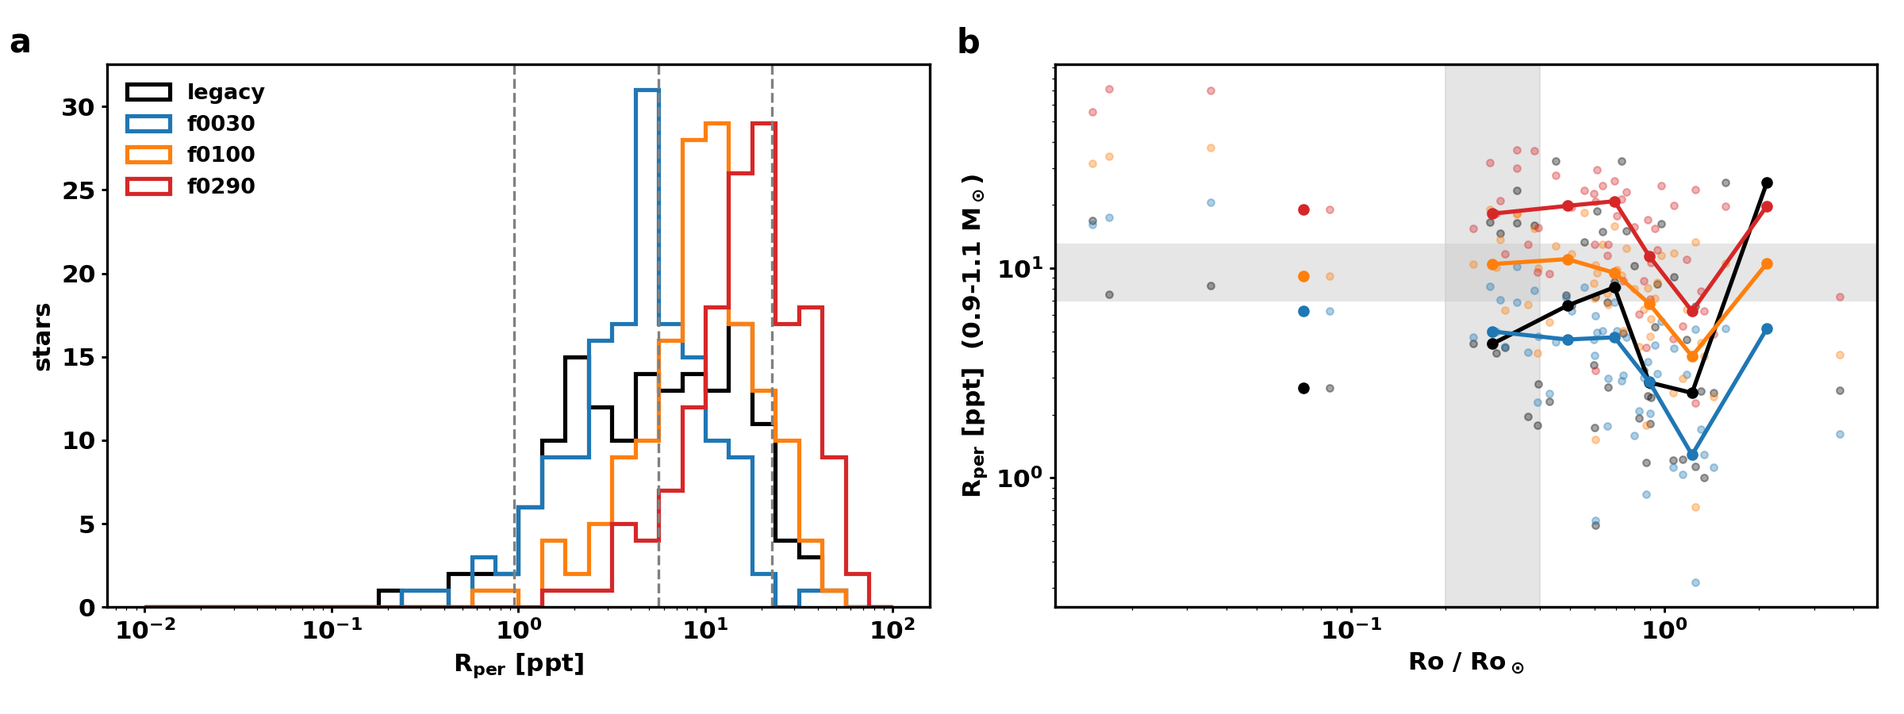
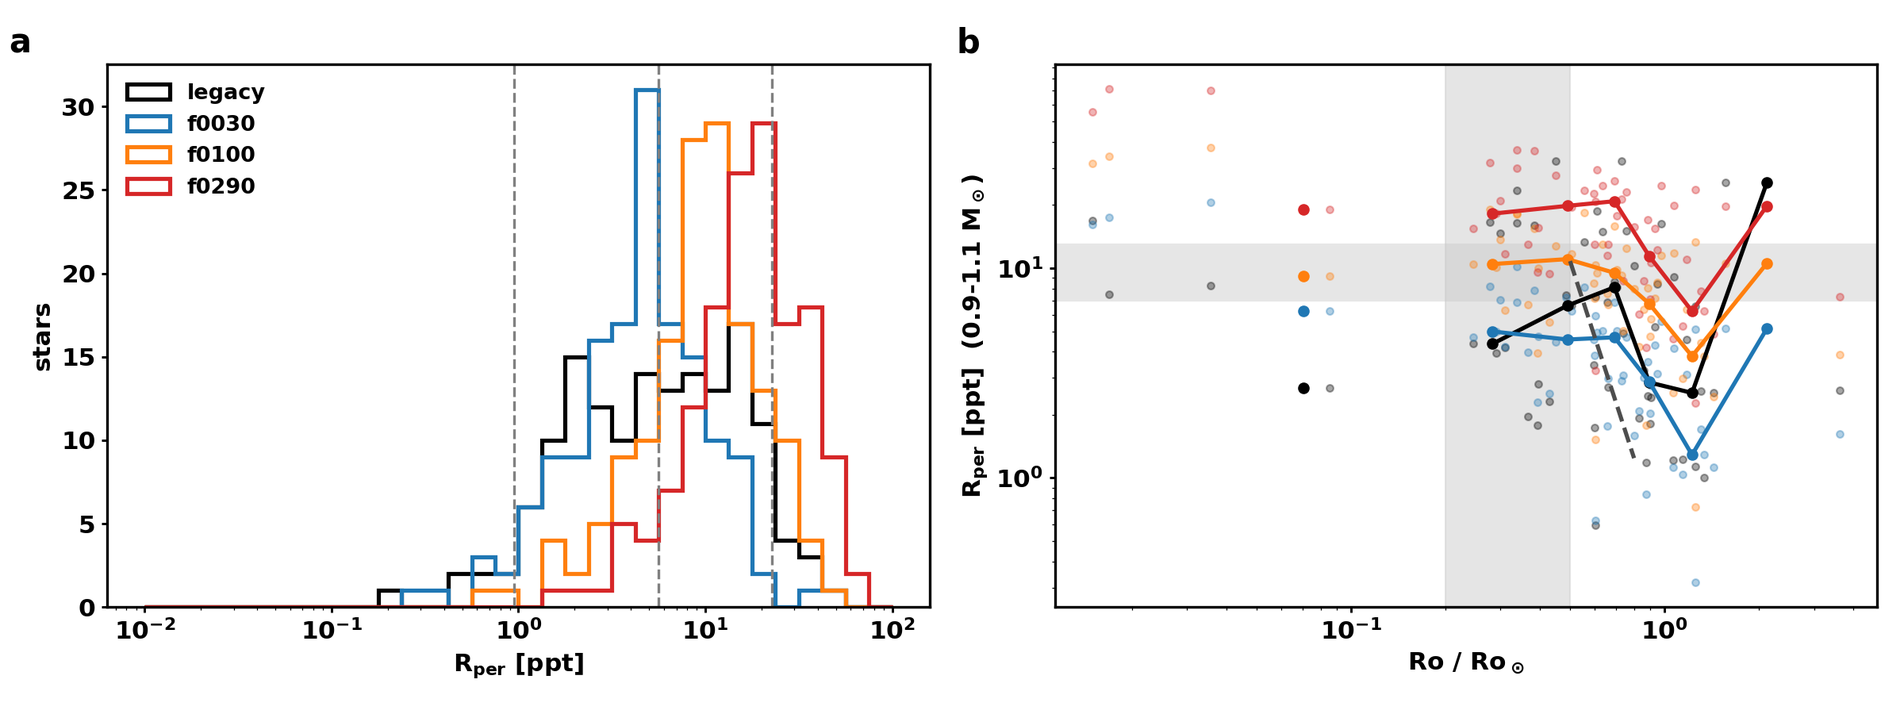
Spot coverage: broken law matching Masuda 2022 slope (default model 'broken')
Flat 0.2-0.5 Ro_sun, coverage slope -7.93 (= R_per slope -4.6 / 0.58) to 0.8 Ro_sun, then
-0.881; f_break 0.02. Predicted from the paired arms: plateau 10.3 ppt (Masuda 10.8),
slope -4.9 (-4.6), McQuillan median/95% 5.78/22.6 (5.6/22.7). Single law kept as 'rossby'.
Readout gains Masuda plateau/slope columns; make_coverage_tables gains --arms broken.

Changed region(s): [[0.8125, 0.4044, 0.8438, 0.8711], [0.8125, 0.0933, 0.8438, 0.3422]]

diff --git a/Dynamo/create_data.py b/Dynamo/create_data.py
@@ -100,20 +100,48 @@ def latitude_population(teff, prot, butterfly, pop, rng):
     return rossby, mu, width, drift
 
 # Time-mean spot coverage (fraction of the whole surface) vs Rossby number; sets the
-# number of spots (Star.generate_spot_map; table column 'Spot Coverage pct'). Per star:
-#   f_i = f_sun * max(Ro_i/Ro_sun, ro_sat)^-slope * 10^N(0, scatter_dex), clipped to f_max
-# with Ro in units of the solar value (Cranmer & Saar 2011 tau_c here).
-# Shape: Cao & Pinsonneault 2022 (MNRAS 517, 2165), Pleiades APOGEE fit eq. 5,
-#   f = 0.0634 Ro^-0.881 above log Ro = -0.729, 0.278 below; their log Ro_sun = 0.39,
-#   so the knee is at Ro/Ro_sun = 10^(-0.729-0.39) = 0.076; scatter 0.059/0.278 = 21% -> 0.09 dex
-#   (saturated stars). Their fit is constrained only for Ro/Ro_sun < ~0.2.
-# Level: f_sun = 0.005, calibrated on 1000-d light curves against the Kepler amplitude
-#   distribution of McQuillan et al. 2014 (docs/spot_coverage.md, 'Calibration'). It lies
-#   between the resolved sunspot coverage at solar maximum (0.28%, Shapiro et al. 2014,
-#   doi:10.1051/0004-6361/201323086) and the spectroscopic level of the same fit at Ro_sun (0.029).
+# number of spots (Star.generate_spot_map; table column 'Spot Coverage pct'). Per star
+# f_i = law(Ro_i/Ro_sun) * 10^N(0, scatter_dex), clipped to f_max, with Ro in units of the
+# solar value (Cranmer & Saar 2011 tau_c, as in Masuda 2022). docs/spot_coverage.md.
+# model "broken" (default), x = Ro/Ro_sun:
+#   x < ro_flat:             f_break * (max(x, ro_sat)/ro_flat)^-slope
+#   ro_flat <= x <= ro_break: f_break
+#   ro_break < x <= ro_tail:  f_break * (x/ro_break)^-slope_unsat
+#   x > ro_tail:              continues with slope_tail
+#   - slope 0.881 and ro_sat 0.076: Cao & Pinsonneault 2022 (MNRAS 517, 2165) eq. 5,
+#     f = 0.0634 Ro^-0.881 above log Ro = -0.729 with their log Ro_sun = 0.39; their
+#     Pleiades fit reaches only x ~ 0.2 (ro_flat). Scatter 21% at saturation -> 0.09 dex.
+#   - flat for 0.2 < x < 0.5, then d ln R_per / d ln Ro = -4.6 +- 0.9 above Ro = 0.99
+#     (x = 0.50): Masuda 2022 (arXiv:2206.01595), Kepler stars with Kp < 12 (least
+#     detection bias); beta_sat = -0.04 +- 0.09. In our light curves R_per ~ f^0.58 per
+#     star, so slope_unsat = 4.6/0.58 = 7.93.
+#   - slope_tail = 0.881 beyond x = 0.8, where Masuda's steep range ends; the less biased
+#     Santos et al. sample flattens again at x >~ 1 (Masuda 2022, Sec. 3.4). Extending the
+#     steep slope to x = 1 would give the Sun 0.008% coverage and leave 6% of stars spotless.
+#   - f_break = 0.02: calibrated so that R_per of 4000-6250 K dwarfs plateaus at ~10.8 ppt
+#     (Masuda) and the median/95% match McQuillan et al. 2014 (5.6/22.7 ppt).
+# model "rossby": single law f_sun * max(x, ro_sat)^-slope (first calibration, f_sun 0.005).
 # model "legacy" restores the old count rule (0.1 sqrt(ar) spots/day, clipped to [20, 500]).
-SPOT_COVERAGE_DEFAULT = dict(model="rossby", f_sun=0.005, slope=0.881, ro_sat=0.076,
+SPOT_COVERAGE_DEFAULT = dict(model="broken", f_break=0.02, ro_flat=0.2, ro_break=0.5,
+                             slope_unsat=7.93, ro_tail=0.8, slope_tail=0.881,
+                             f_sun=0.005, slope=0.881, ro_sat=0.076,
                              scatter_dex=0.09, f_max=0.5)
+
+
+def spot_coverage_law(x, cfg):
+    """Median spot coverage (fraction of the surface) at Ro/Ro_sun = x, before scatter."""
+    x = np.asarray(x, dtype=float)
+    if cfg["model"] == "rossby":
+        return cfg["f_sun"] * np.maximum(x, cfg["ro_sat"]) ** (-cfg["slope"])
+    if cfg["model"] != "broken":
+        raise ValueError(f"unknown spot coverage model {cfg['model']!r}")
+    fb, xb, xt = cfg["f_break"], cfg["ro_break"], cfg["ro_tail"]
+    f_tail = fb * (xt / xb) ** (-cfg["slope_unsat"])
+    return np.where(x < cfg["ro_flat"],
+                    fb * (np.maximum(x, cfg["ro_sat"]) / cfg["ro_flat"]) ** (-cfg["slope"]),
+           np.where(x <= xb, fb,
+           np.where(x <= xt, fb * (x / xb) ** (-cfg["slope_unsat"]),
+                    f_tail * (x / xt) ** (-cfg["slope_tail"]))))
 
 
 def spot_coverage_population(rossby, has_dynamo, cfg, rng):
@@ -121,8 +149,8 @@ def spot_coverage_population(rossby, has_dynamo, cfg, rng):
     n = len(rossby)
     if cfg["model"] == "legacy":
         return np.full(n, np.nan)
-    x = np.maximum(np.asarray(rossby, dtype=float) / ROSSBY_SUN, cfg["ro_sat"])
-    f = cfg["f_sun"] * x ** (-cfg["slope"]) * 10 ** rng.normal(0.0, cfg["scatter_dex"], n)
+    x = np.asarray(rossby, dtype=float) / ROSSBY_SUN
+    f = spot_coverage_law(x, cfg) * 10 ** rng.normal(0.0, cfg["scatter_dex"], n)
     return np.where(has_dynamo, np.minimum(f, cfg["f_max"]), 0.0)
 
 

diff --git a/scripts/make_coverage_tables.py b/scripts/make_coverage_tables.py
@@ -2,23 +2,28 @@
 """Spot-coverage calibration tables (docs/spot_coverage.md).
 
 One table drawn once, written once per arm. The arms differ only in the
-'Spot Coverage pct' column: f_sun scales every star's coverage (same scatter
-draw), and the 'legacy' arm uses the old spot-count rule (column NaN). Every
-other column and the per-star Seed are shared, so the arms are paired.
+'Spot Coverage pct' column; the per-star scatter draw, every other column and the
+per-star Seed are shared, so the arms are paired. Arms:
+  legacy     old spot-count rule (column NaN)
+  fXXXX      single law f_sun * max(Ro/Ro_sun, ro_sat)^-0.881, f_sun = XXXX/1e4 (model "rossby")
+  broken     the default broken law (SPOT_COVERAGE_DEFAULT)
 
   python scripts/make_coverage_tables.py --n 200 --out dataset_cov
-  -> dataset_cov_legacy/ dataset_cov_f0030/ dataset_cov_f0100/ dataset_cov_f0290/
+  -> dataset_cov_legacy/ dataset_cov_f0030/ dataset_cov_f0100/ dataset_cov_f0290/ dataset_cov_broken/
+  python scripts/make_coverage_tables.py --arms broken     # only the default-law arm
 """
 import argparse
 import logging
 import sys
+import tempfile
 from pathlib import Path
 
 import numpy as np
 import pandas as pd
 
 sys.path.insert(0, str(Path(__file__).resolve().parents[1]))
-from Dynamo.create_data import generate_simdata, SPOT_COVERAGE_DEFAULT  # noqa: E402
+from Dynamo.create_data import (generate_simdata, SPOT_COVERAGE_DEFAULT, ROSSBY_SUN,  # noqa: E402
+                                spot_coverage_law)
 
 
 def main():
@@ -28,22 +33,35 @@ def main():
     ap.add_argument("--f-sun", type=float, nargs="+", default=[0.003, 0.01, 0.029])
     ap.add_argument("--base-seed", type=int, default=100000)
     ap.add_argument("--table-seed", type=int, default=2026, help="seed for drawing the table itself")
+    ap.add_argument("--arms", nargs="+", default=["legacy", "f_sun", "broken"],
+                    help="any of: legacy, f_sun (one arm per --f-sun value), broken")
     a = ap.parse_args()
-    arms = {f"{a.out}_legacy": None}
-    arms.update({f"{a.out}_f{round(f * 1e4):04d}": f for f in a.f_sun})
+    arms = {}
+    if "legacy" in a.arms:
+        arms[f"{a.out}_legacy"] = None
+    if "f_sun" in a.arms:
+        arms.update({f"{a.out}_f{round(f * 1e4):04d}": f for f in a.f_sun})
+    if "broken" in a.arms:
+        arms[f"{a.out}_broken"] = "broken"
     for d in arms:
         if (Path(d) / "simulation_properties.csv").exists():
             sys.exit(f"{d}/simulation_properties.csv exists; refusing to overwrite")
-    first = Path(next(iter(arms)))
-    first.mkdir(parents=True, exist_ok=True)
-    np.random.seed(a.table_seed)
-    generate_simdata(str(first), a.n, logging.getLogger("tables"), base_seed=a.base_seed, sim_name="dataset")
-    t = pd.read_csv(first / "simulation_properties.csv")
-    base = t["Spot Coverage pct"].to_numpy() / SPOT_COVERAGE_DEFAULT["f_sun"]
+    with tempfile.TemporaryDirectory() as tmp:
+        np.random.seed(a.table_seed)
+        generate_simdata(tmp, a.n, logging.getLogger("tables"), base_seed=a.base_seed, sim_name="dataset")
+        t = pd.read_csv(Path(tmp) / "simulation_properties.csv")
+    # per-star scatter factor of the default law (0 for stars without a dynamo)
+    law = spot_coverage_law(t["Rossby"].to_numpy() / ROSSBY_SUN, SPOT_COVERAGE_DEFAULT)
+    eps = t["Spot Coverage pct"].to_numpy() / 100 / law
+    x = t["Rossby"].to_numpy() / ROSSBY_SUN
     for d, f in arms.items():
         Path(d).mkdir(parents=True, exist_ok=True)
         u = t.copy()
-        u["Spot Coverage pct"] = np.nan if f is None else base * f
+        if f is None:
+            u["Spot Coverage pct"] = np.nan
+        elif f != "broken":
+            single = spot_coverage_law(x, dict(SPOT_COVERAGE_DEFAULT, model="rossby", f_sun=f))
+            u["Spot Coverage pct"] = 100 * np.minimum(single * eps, SPOT_COVERAGE_DEFAULT["f_max"])
         u.to_csv(Path(d) / "simulation_properties.csv", index=False, float_format="%.6g")
         cov = u.loc[u["Has Dynamo"].astype(bool), "Spot Coverage pct"]
         print(f"{d}: {len(u)} stars, {int(u['Has Dynamo'].sum())} with a dynamo, "

diff --git a/scripts/coverage_calibration_report.py b/scripts/coverage_calibration_report.py
@@ -4,8 +4,9 @@
 For each arm (dataset_cov_legacy, dataset_cov_fXXXX):
   R_per percentiles of main-sequence stars below 6500 K vs McQuillan et al. 2014
   (950 / 5600 / 22700 ppm), Sarle's bimodality coefficient of log R_per, and
-  R_per vs Ro/Ro_sun for 0.9-1.1 M_sun stars vs Masuda 2022 (~1% plateau for
-  0.2 < Ro/Ro_sun < 0.4, steep decline above ~0.4).
+  R_per vs Ro/Ro_sun vs Masuda 2022 (arXiv:2206.01595; Cranmer & Saar tau_c as here):
+  for 4000-6250 K dwarfs, plateau R_per ~ 10.8 ppt for 0.2 < Ro/Ro_sun < 0.5 and
+  d ln R_per / d ln Ro = -4.6 +- 0.9 above Ro/Ro_sun = 0.50 (Kp < 12 fit).
 
   python scripts/coverage_calibration_report.py dataset_cov_legacy dataset_cov_f0030 \
       dataset_cov_f0100 dataset_cov_f0290 --out docs/spot_coverage_calibration
@@ -28,6 +29,7 @@ from faculae_smoke_report import load, norm, r_per, md_table  # noqa: E402
 from Dynamo.create_data import ROSSBY_SUN  # noqa: E402
 
 MCQ = (0.95, 5.6, 22.7)          # ppt, 5th / 50th / 95th percentile
+MASUDA = (10.8, -4.6)            # plateau [ppt], slope above Ro/Ro_sun = 0.5
 RO_BINS = [0.05, 0.1, 0.2, 0.4, 0.6, 0.8, 1.0, 1.5, 3.0]
 
 plt.rcParams.update({"font.size": 15, "font.weight": "bold", "axes.labelweight": "bold",
@@ -82,20 +84,25 @@ def main():
                      "boosted": f"{(g.boost > 1).mean():.0%}",
                      "rho(R_per, Ro)": f"{stats.spearmanr(g.rper_ppt, g.ro_rel)[0]:+.2f}",
                      "rho(R_per, area)": f"{stats.spearmanr(g.rper_ppt, g.max_area)[0]:+.2f}"})
+        k = g[(g.evo == "dwarf") & g.teff.between(4000, 6250) & (g.rper_ppt > 0)]
+        a58 = k[k.ro_rel.between(0.5, 0.8)]
+        summ[-1].update({"plateau 0.2-0.5 [ppt]": f"{k[k.ro_rel.between(0.2, 0.5)].rper_ppt.median():.1f}",
+                         "slope 0.5-0.8": f"{np.polyfit(np.log(a58.ro_rel), np.log(a58.rper_ppt), 1)[0]:+.1f}"})
         sm = g[g.mass.between(0.9, 1.1)]
         for lo, hi in zip(RO_BINS[:-1], RO_BINS[1:]):
             s = sm[(sm.ro_rel >= lo) & (sm.ro_rel < hi)]
             ro_rows.append({"arm": arm, "Ro/Ro_sun": f"{lo}-{hi}", "n": len(s),
                             "R_per median [ppt]": f"{s.rper_ppt.median():.2f}" if len(s) else "-"})
-    summ.append({"arm": "McQuillan 2014", "R_per 5% [ppt]": MCQ[0], "50%": MCQ[1], "95%": MCQ[2]})
+    summ.append({"arm": "McQuillan 2014 / Masuda 2022", "R_per 5% [ppt]": MCQ[0], "50%": MCQ[1], "95%": MCQ[2],
+                 "plateau 0.2-0.5 [ppt]": MASUDA[0], "slope 0.5-0.8": MASUDA[1]})
     ro = pd.DataFrame(ro_rows).pivot(index="Ro/Ro_sun", columns="arm", values="R_per median [ppt]")
     ro = ro.loc[[f"{lo}-{hi}" for lo, hi in zip(RO_BINS[:-1], RO_BINS[1:])]].reset_index()
     with open(f"{a.out}.md", "w") as f:
         f.write("# Spot-coverage calibration readout\n\n"
                 "R_per of clean 1000-d light curves (faculae on, no noise). Main sequence, Teff < 6500 K.\n\n")
         f.write(md_table(pd.DataFrame(summ).fillna("")) + "\n\n")
-        f.write("R_per median vs Ro/Ro_sun, 0.9-1.1 M_sun (Masuda 2022: ~10 ppt plateau at 0.2-0.4, "
-                "steep decline above ~0.4)\n\n" + md_table(ro.fillna("-")) + "\n")
+        f.write("R_per median vs Ro/Ro_sun, 0.9-1.1 M_sun (Masuda 2022: ~10.8 ppt plateau at 0.2-0.5, "
+                "slope -4.6 above 0.5). Plateau and slope columns above: 4000-6250 K dwarfs.\n\n" + md_table(ro.fillna("-")) + "\n")
 
     fig, (ax1, ax2) = plt.subplots(1, 2, figsize=(16, 6))
     colors = ["k", "tab:blue", "tab:orange", "tab:red", "tab:green", "tab:purple"]
@@ -114,7 +121,9 @@ def main():
     ax1.set_ylabel("stars")
     ax1.legend(frameon=False, fontsize=13)
     ax2.axhspan(7, 13, xmin=0, xmax=1, color="0.9", zorder=0)
-    ax2.axvspan(0.2, 0.4, color="0.8", alpha=0.5, zorder=0)
+    ax2.axvspan(0.2, 0.5, color="0.8", alpha=0.5, zorder=0)
+    xs = np.array([0.5, 0.8])
+    ax2.plot(xs, MASUDA[0] * (xs / 0.5) ** MASUDA[1], color="0.3", ls="--", lw=2.5)
     ax2.set_xscale("log"); ax2.set_yscale("log")
     ax2.set_xlabel(r"Ro / Ro$_\odot$")
     ax2.set_ylabel(r"R$_{\rm per}$ [ppt]  (0.9-1.1 M$_\odot$)")

diff --git a/tests/test_spot_coverage.py b/tests/test_spot_coverage.py
@@ -7,7 +7,7 @@ import numpy as np
 
 from helpers import make_star
 from Dynamo import spots
-from Dynamo.create_data import SPOT_COVERAGE_DEFAULT, ROSSBY_SUN
+from Dynamo.create_data import SPOT_COVERAGE_DEFAULT, ROSSBY_SUN, spot_coverage_law
 
 _CACHE = {}
 
@@ -58,18 +58,28 @@ def test_max_spots_keeps_coverage():
 def test_population_follows_rossby_law():
     sims, pop = _table(None)
     c = pop["spot_coverage"]
-    assert c["model"] == "rossby" and c["f_sun"] == SPOT_COVERAGE_DEFAULT["f_sun"]
+    assert c["model"] == "broken" and c["f_break"] == SPOT_COVERAGE_DEFAULT["f_break"]
     f = sims["Spot Coverage pct"].values / 100
     dyn = sims["Has Dynamo"].values.astype(bool)
     assert (f[~dyn] == 0).all() and (f[dyn] > 0).all()
     x = sims.Rossby.values / ROSSBY_SUN
-    near_sun = dyn & (x > 0.8) & (x < 1.25)
-    assert abs(np.median(f[near_sun]) / c["f_sun"] - 1) < 0.25
+    plateau = dyn & (x > c["ro_flat"]) & (x < c["ro_break"])
+    assert abs(np.median(f[plateau]) / c["f_break"] - 1) < 0.1
     sat = dyn & (x < c["ro_sat"])
-    plateau = c["f_sun"] * c["ro_sat"] ** -c["slope"]
-    assert abs(np.median(f[sat]) / plateau - 1) < 0.1
-    resid = np.log10(f[dyn]) - np.log10(c["f_sun"] * np.maximum(x[dyn], c["ro_sat"]) ** -c["slope"])
+    assert abs(np.median(f[sat]) / (c["f_break"] * (c["ro_sat"] / c["ro_flat"]) ** -c["slope"]) - 1) < 0.1
+    resid = np.log10(f[dyn]) - np.log10(spot_coverage_law(x[dyn], c))
     assert abs(resid.std() - c["scatter_dex"]) < 0.01
+
+
+def test_broken_law_shape():
+    c = SPOT_COVERAGE_DEFAULT
+    x = np.array([0.01, c["ro_sat"], c["ro_flat"], 0.35, c["ro_break"], c["ro_tail"], 2 * c["ro_tail"]])
+    f = spot_coverage_law(x, c)
+    assert f[0] == f[1] and np.isclose(f[2], c["f_break"]) and f[3] == f[4] == c["f_break"]
+    assert np.isclose(f[5], c["f_break"] * (c["ro_tail"] / c["ro_break"]) ** -c["slope_unsat"])
+    assert np.isclose(f[6], f[5] * 2 ** -c["slope_tail"])
+    r = spot_coverage_law(x, dict(c, model="rossby"))
+    assert np.isclose(spot_coverage_law(1.0, dict(c, model="rossby")), c["f_sun"]) and r[0] == r[1]
 
 
 def test_legacy_model_and_other_draws_unchanged():

diff --git a/docs/spot_coverage.md b/docs/spot_coverage.md
@@ -21,7 +21,8 @@ stars. That is much flatter than the measured relation below.
 | f_spot, M67 (solar age) | GK dwarfs 0.030 +- 0.008; solar analogues (5700-5900 K) 0.020 +- 0.011; giants 0.003 +- 0.002 | same |
 | TiO f_spot, Pleiades | rises with decreasing Ro, saturates at 40-50% below Ro ~ 0.1 (Wright 2011 tau) | Fang et al. 2016, MNRAS 463, 2494 (arXiv:1608.05452) |
 | f_spot vs age, Kepler/K2 clusters | f ~ 0.014 (t/Gyr)^-0.37; f ~ 0.02 SmAmp[%]^0.74 | Morris 2020, ApJ, doi:10.3847/1538-4357/ab79a0 (arXiv:2002.09135) |
-| photometric amplitude vs Ro, solar-mass Kepler stars | R_per ~ 1% plateau for 0.2 < Ro/Ro_sun < 0.4; then d ln R_per / d ln Ro = -2.5 to -4.5 | Masuda 2022, ApJ (arXiv:2206.01595) |
+| photometric amplitude vs Ro, 4000-6250 K Kepler dwarfs (Cranmer & Saar tau_c, Ro_sun ~ 2) | all stars: R_per = 10.8 +- 0.4 ppt at Ro = 0.84 +- 0.02 (Ro/Ro_sun 0.43), slope -0.04 +- 0.09 below and -2.6 +- 0.1 above; Kp < 12 (least detection bias): break at Ro = 0.99 (0.50 Ro_sun), slope -4.6 +- 0.9 above; scatter 0.24 dex | Masuda 2022, ApJ (arXiv:2206.01595), Sec. 3.2-3.3 |
+| Sun vs Kepler solar-like stars with detected periods | median variability of the stars 5x the Sun's | Reinhold et al. 2020, Science 368, 518, doi:10.1126/science.aay3821 |
 | Kepler R_per distribution (detected periods) | 5th / 50th / 95th percentile = 950 / 5600 / 22700 ppm | McQuillan, Mazeh & Aigrain 2014, ApJS (arXiv:1402.5694) |
 | starspot lifetimes (Kepler, solar-type) | 10-350 d for spots of 0.1-2.3% of the hemisphere | Namekata et al. 2019, ApJ (arXiv:1811.10782) |
 
@@ -39,17 +40,22 @@ Two facts matter for the design:
 
 ## Model
 
-`create_data.SPOT_COVERAGE_DEFAULT`, column `Spot Coverage pct` (time-mean % of the whole surface):
+`create_data.SPOT_COVERAGE_DEFAULT`, column `Spot Coverage pct` (time-mean % of the whole surface),
+`f_i = law(Ro_i/Ro_sun) * 10^N(0, scatter_dex)`, `f_i <= f_max`, with the broken law
+(`create_data.spot_coverage_law`, model "broken"), x = Ro/Ro_sun:
 
-    f_i = f_sun * max(Ro_i/Ro_sun, ro_sat)^-slope * 10^N(0, scatter_dex),   f_i <= f_max
-
-| parameter | default | origin |
+| range | coverage | origin |
 |---|---|---|
-| f_sun | 0.005 | calibrated against McQuillan 2014 amplitudes (below); Sun at maximum is 0.003 (Shapiro 2014) |
-| slope | 0.881 | Cao & Pinsonneault 2022 eq. 5 |
-| ro_sat | 0.076 | same, converted with their log Ro_sun = 0.39 |
-| scatter_dex | 0.09 | same, 21% at saturation |
-| f_max | 0.5 | TiO saturation level, Fang 2016 |
+| x < ro_sat = 0.076 | saturated, 2.34 f_break | Cao & Pinsonneault 2022 eq. 5 knee |
+| 0.076 < x < ro_flat = 0.2 | f_break (x/0.2)^-0.881 | Cao & Pinsonneault slope (their data reach x ~ 0.2) |
+| 0.2 <= x <= ro_break = 0.5 | f_break = 0.02 | Masuda: R_per flat (slope -0.04 +- 0.09); level calibrated below |
+| 0.5 < x <= ro_tail = 0.8 | f_break (x/0.5)^-7.93 | Masuda Kp < 12: R_per slope -4.6, and R_per ~ f^0.58 per star |
+| x > 0.8 | continues with slope -0.881 | end of Masuda's steep range; the Santos sample flattens at x >~ 1 |
+
+scatter_dex = 0.09 (Cao & Pinsonneault, 21% at saturation), f_max = 0.5 (TiO saturation,
+Fang 2016). Resulting medians: 4.7% saturated, 2% on the plateau, 0.14% at x = 0.7,
+0.04% at Ro_sun. The first calibration's single law, f_sun * max(x, ro_sat)^-0.881 with
+f_sun = 0.005, remains as model "rossby".
 
 Ro uses the table's Cranmer & Saar 2011 tau_c with Ro_sun = 25.4 d / tau_c(5772 K). Only the
 ratio Ro/Ro_sun is transferred between conventions; the mass dependence of the two
@@ -94,6 +100,7 @@ unresolved groups of smaller spots. The per-star config records `n_spots`,
 | **0.005 (default)** | 0.23 / 0.78 / 3.2 (0.003 row x 5/3) | 27 / 195 / 1677 (same scaling) | - |
 | 0.01 | 0.48 / 1.55 / 6.3 | 54 / 390 / 3353 | 6% / 1% |
 | 0.029 (spectroscopic) | 1.4 / 4.5 / 18 | 156 / 1132 / 9725 | 24% / 5% |
+| **broken law (default)** | 0.019 / 0.41 / 3.0 | 3 / 84 / 2103 | 2.5% / 0%; 1% below one spot |
 
 ## Run time vs spot count
 
@@ -122,6 +129,11 @@ Athena jobs 178155-178158, 178482-178483. R_per for main-sequence stars below 65
 | f_sun = 0.029 | 4.38 / 17.8 / 48.5 | 0.39 | 1946 / 14860 | -0.53 | +0.50 |
 | McQuillan 2014 | 0.95 / 5.6 / 22.7 | | | | |
 
+Against Masuda 2022 (4000-6250 K dwarfs; `plateau` and `slope` columns of the readout):
+plateau R_per at 0.2 < Ro/Ro_sun < 0.5 is 9.4 / 5.4 / 11.5 / 19.8 ppt (old rule, 0.003,
+0.01, 0.029; Masuda 10.8) and the slope over 0.5-0.8 is +0.3 / -0.7 / -0.5 / -0.3
+(Masuda -4.6 +- 0.9).
+
 Findings:
 
 1. **The second amplitude peak is gone.** Sarle's coefficient drops from 0.42 to 0.30
@@ -132,13 +144,43 @@ Findings:
    f_sun^0.48 at the 95th percentile (from the 0.003 and 0.01 runs). Matching the median
    needs 0.004 and the 95th percentile 0.006. McQuillan counts only stars with detected
    periods, which favours large amplitudes. **Default: f_sun = 0.005.**
-4. **Open: the shape vs Masuda 2022 does not match.** For 0.9-1.1 M_sun stars (about 10 per
-   Ro bin per arm), median R_per is flat up to Ro/Ro_sun ~ 0.8 and then falls with
-   d ln R / d ln Ro ~ -1. Masuda finds a ~10 ppt plateau at 0.2-0.4 and slopes of -2.5 to
-   -4.5 above 0.4. The plateau level matches f_sun = 0.01 (10.4 ppt) better than 0.003
-   (5.0 ppt). The likely cause is the coverage slope, not the level: Cao & Pinsonneault's
-   -0.88 is fit only below Ro/Ro_sun ~ 0.2, and a steeper slope above ~0.4 would match
-   Masuda. That needs its own run.
+4. **The shape did not match Masuda 2022** (fixed below): the single -0.88 law gives an
+   R_per slope of about -0.5, against -4.6.
+
+### Slope fix: broken law
+
+In these runs, amplitude per unit coverage hardly depends on Ro (rho(R_per / f^0.58, Ro) =
+-0.11; spot size matters more, +0.41), and per star R_per ~ f^0.58 (median of the paired
+arms; 0.52-0.62 in every Ro bin, close to the sqrt(N) of spots at random longitudes). So
+Masuda's R_per law maps directly onto coverage: flat for 0.2-0.5 Ro_sun, slope
+-4.6/0.58 = -7.93 above. Masuda uses the same Cranmer & Saar tau_c as the table
+(Ro_sun ~ 2; ours 1.97), so no conversion is needed. The bright-star (Kp < 12) slope is
+used because the simulation has no detection bias; the all-star -2.6 is shallower
+because weak modulation is missed (Masuda Sec. 3.3).
+
+f_break was set by predicting each star's R_per under candidate laws, interpolating its
+log R_per vs log f between the three paired arms (slope 0.58 beyond them):
+
+| law | plateau [ppt] | slope 0.5-0.8 | R_per 5 / 50 / 95% | f(Ro_sun) |
+|---|---|---|---|---|
+| f_break 0.02, steep to 1.0 | 10.3 | -4.9 | 0.18 / 5.78 / 22.6 | 0.008% (6% of stars < 0.5 spots) |
+| **f_break 0.02, steep to 0.8 (default)** | **10.3** | **-4.9** | **0.37 / 5.78 / 22.6** | **0.04%** |
+| target | 10.8 (Masuda) | -4.6 +- 0.9 | 0.95 / 5.6 / 22.7 (McQuillan) | |
+
+One law now fits Masuda's plateau and slope and McQuillan's median and 95th percentile:
+the earlier conflict between levels (0.005 for McQuillan, 0.01 for Masuda's plateau) came
+from the slope. The 5th percentile sits below McQuillan, as expected for a catalogue of
+detected periods. Ending the steep part at 0.8 rather than 1.0 changes nothing over
+Masuda's range; it keeps Sun-like stars spotted.
+
+Open: at Ro_sun the law gives 0.04% coverage, below the Sun's resolved sunspot coverage
+(0.28% at maximum). Kepler stars near Ro_sun are themselves more variable than the Sun
+(Reinhold 2020), so the Sun is not used as an anchor. The low value may mean the
+simulation over-produces amplitude per unit spot area at low activity (e.g. too-large
+spots or too little facular cancellation), which this calibration absorbs into f.
+
+**Confirmation run (to do):** `dataset_cov_broken`, the same 200 stars with the default law
+(`python scripts/make_coverage_tables.py --arms broken`), then rerun the readout with five arms.
 
 Caveats: no photometric noise, no period-detection selection, 150 stars per arm.
 

diff --git a/docs/spot_coverage_calibration.md b/docs/spot_coverage_calibration.md
@@ -2,15 +2,15 @@
 
 R_per of clean 1000-d light curves (faculae on, no noise). Main sequence, Teff < 6500 K.
 
-|  | arm | N (MS, <6500 K) | R_per 5% [ppt] | 50% | 95% | bimodality (log R_per) | spots median | spots max | boosted | rho(R_per, Ro) | rho(R_per, area) |
-|---|---|---|---|---|---|---|---|---|---|---|---|
-| 0 | dataset_cov_legacy | 150 | 1.03 | 6.59 | 23.8 | 0.42 | 270 | 500 | 0% | -0.25 | +0.75 |
-| 1 | dataset_cov_f0030 | 150 | 1.04 | 4.66 | 16.3 | 0.30 | 210 | 5591 | 0% | -0.59 | +0.40 |
-| 2 | dataset_cov_f0100 | 150 | 2.16 | 9.94 | 28.9 | 0.37 | 674 | 11600 | 1% | -0.56 | +0.49 |
-| 3 | dataset_cov_f0290 | 150 | 4.38 | 17.80 | 48.5 | 0.39 | 1946 | 14860 | 6% | -0.53 | +0.50 |
-| 4 | McQuillan 2014 |  | 0.95 | 5.6 | 22.7 |  |  |  |  |  |  |
+|  | arm | N (MS, <6500 K) | R_per 5% [ppt] | 50% | 95% | bimodality (log R_per) | spots median | spots max | boosted | rho(R_per, Ro) | rho(R_per, area) | plateau 0.2-0.5 [ppt] | slope 0.5-0.8 |
+|---|---|---|---|---|---|---|---|---|---|---|---|---|---|
+| 0 | dataset_cov_legacy | 150 | 1.03 | 6.59 | 23.8 | 0.42 | 270 | 500 | 0% | -0.25 | +0.75 | 9.4 | +0.3 |
+| 1 | dataset_cov_f0030 | 150 | 1.04 | 4.66 | 16.3 | 0.30 | 210 | 5591 | 0% | -0.59 | +0.40 | 5.4 | -0.7 |
+| 2 | dataset_cov_f0100 | 150 | 2.16 | 9.94 | 28.9 | 0.37 | 674 | 11600 | 1% | -0.56 | +0.49 | 11.5 | -0.5 |
+| 3 | dataset_cov_f0290 | 150 | 4.38 | 17.80 | 48.5 | 0.39 | 1946 | 14860 | 6% | -0.53 | +0.50 | 19.8 | -0.3 |
+| 4 | McQuillan 2014 / Masuda 2022 |  | 0.95 | 5.6 | 22.7 |  |  |  |  |  |  | 10.8 | -4.6 |
 
-R_per median vs Ro/Ro_sun, 0.9-1.1 M_sun (Masuda 2022: ~10 ppt plateau at 0.2-0.4, steep decline above ~0.4)
+R_per median vs Ro/Ro_sun, 0.9-1.1 M_sun (Masuda 2022: ~10.8 ppt plateau at 0.2-0.5, slope -4.6 above 0.5). Plateau and slope columns above: 4000-6250 K dwarfs.
 
 |  | Ro/Ro_sun | dataset_cov_f0030 | dataset_cov_f0100 | dataset_cov_f0290 | dataset_cov_legacy |
 |---|---|---|---|---|---|
